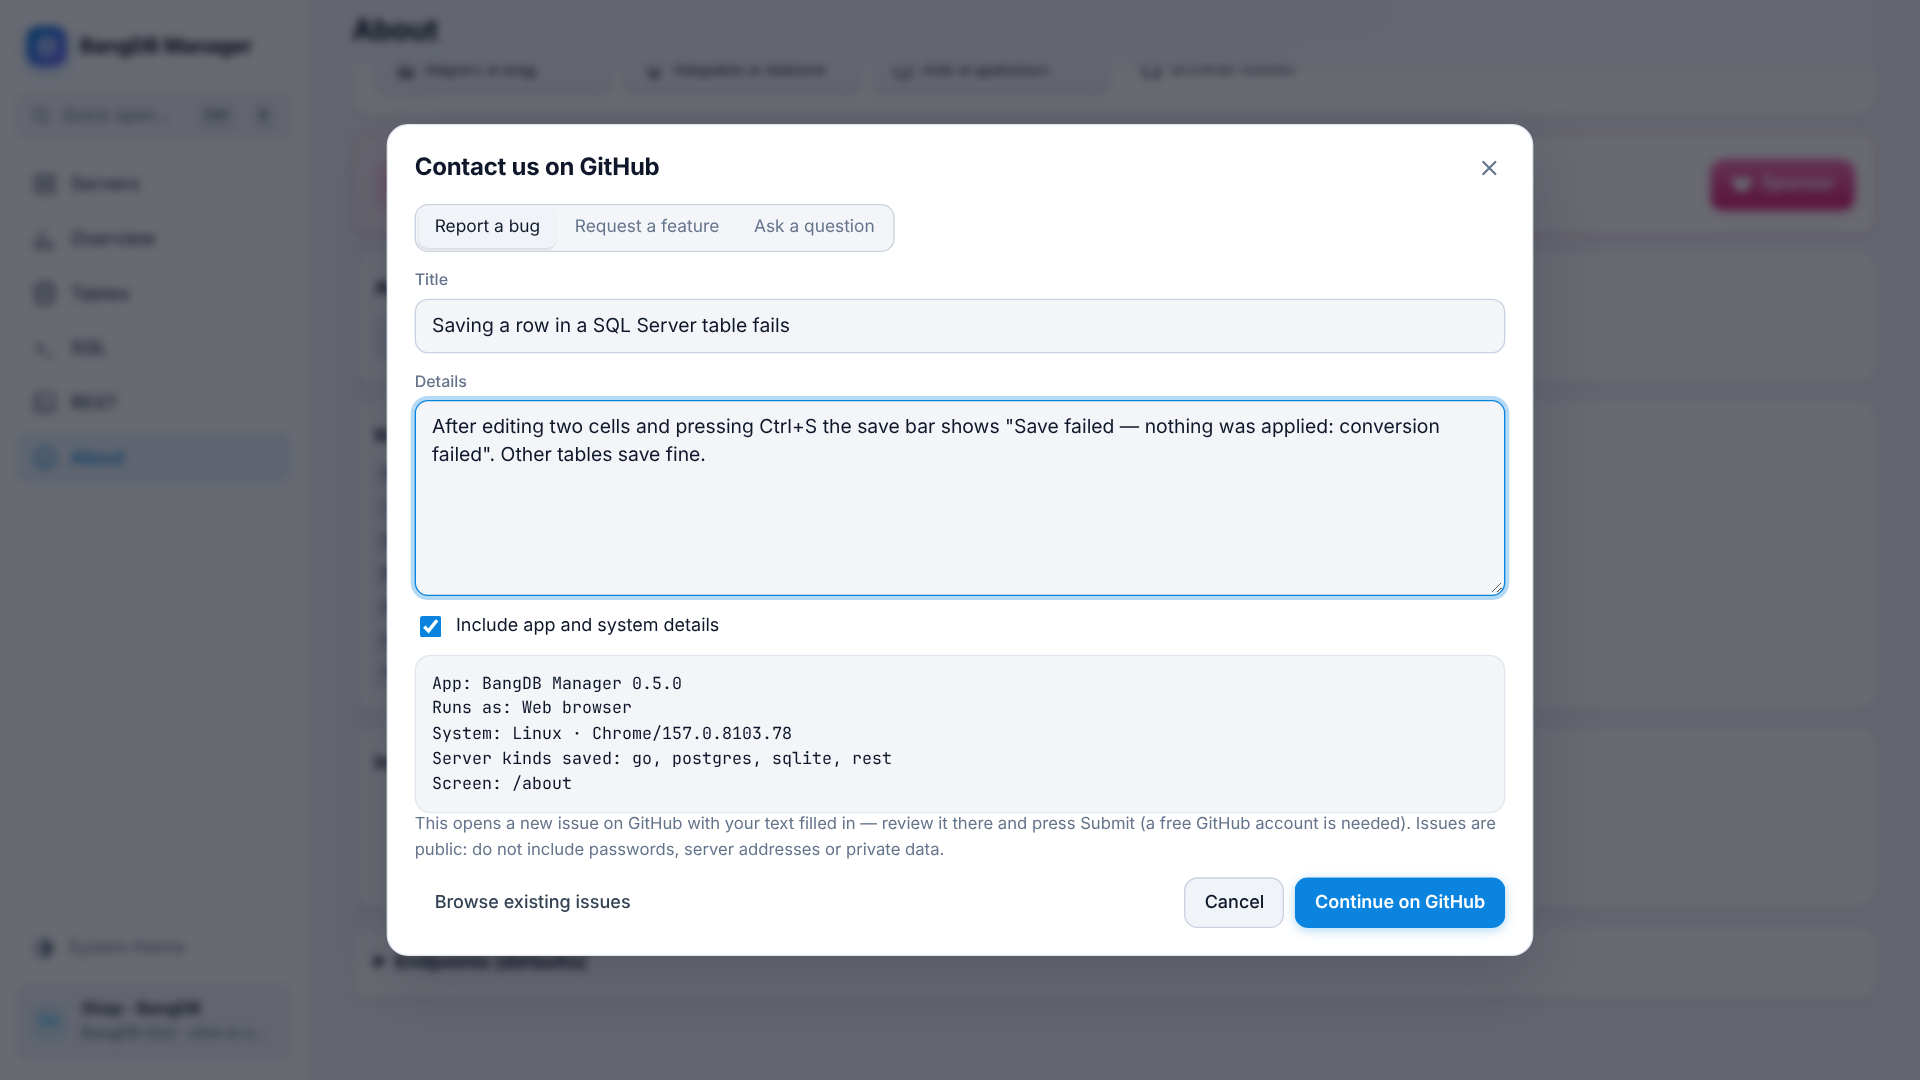
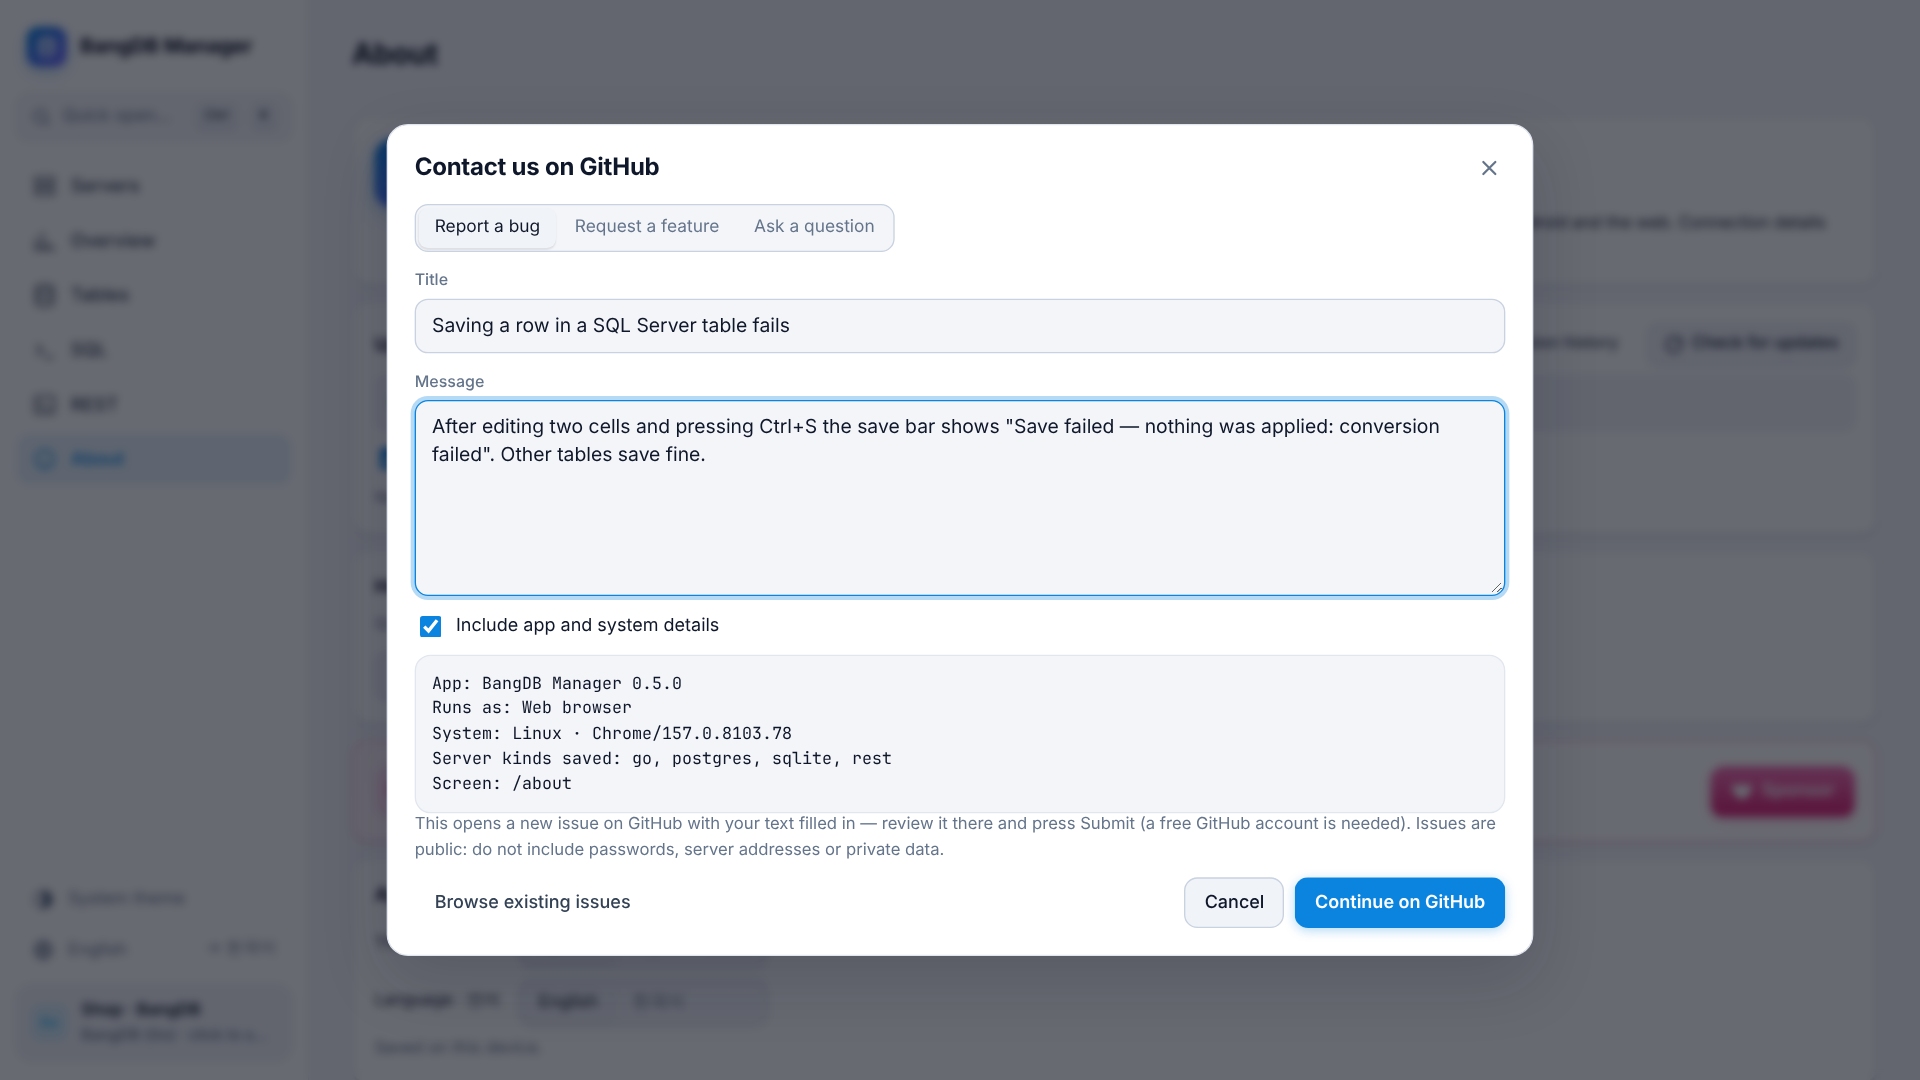
Take English and Korean store screenshots, document the language switch
- screenshots/en and screenshots/ko (MinaryHub picks the folder matching
  its page language); scripts/store-screenshots.mjs takes UI_LANG=ko
- README shows the Korean screens, describes the language switch and how
  to add UI text; CHANGELOG and MinaryHub config updated

Claude-Session: https://claude.ai/code/session_01A9NzuDcSjiniLXp6vE16Xp

diff --git a/README.md b/README.md
@@ -5,7 +5,7 @@
 
 > *A cross-platform database manager for BangDB, PostgreSQL, MySQL/MariaDB, SQL Server, SQLite, MongoDB and Redis — edit tables like a spreadsheet, run SQL, change schemas, import, export and back up, with the same app on Windows, macOS, Linux, Android and the web.* ([English summary](#english))
 
-![BangDB Manager — 테이블 데이터를 바로 편집](./screenshots/desktop-1920x1080/01-table-data.png)
+![BangDB Manager — 테이블 데이터를 바로 편집](./screenshots/ko/desktop-1920x1080/01-table-data.png)
 
 ## 다운로드
 
@@ -34,30 +34,31 @@
 - **어디서나** — 데스크톱 앱, Android 앱, 설치형 웹앱(PWA). 데스크톱 앱이 같은 Wi-Fi 의 휴대폰에 앱을 그대로 제공.
 - **자동 업데이트와 버전 관리** — 백그라운드 업데이트, 자동 확인 켜기/끄기, 업데이트 후 "새로운 점", 버전 기록과 이전 버전 다시 설치.
 - **문의 · 후원** — 앱에서 바로 버그 신고·기능 요청·질문(GitHub Issues), GitHub Sponsors 로 후원.
+- **한국어 / English** — 화면·메뉴·안내 문구를 한국어와 영어로 바로 전환(사이드바의 언어 버튼, 정보 → 화면, Ctrl/⌘+K). 기본은 영어이고 고른 언어는 기기에 저장됩니다.
 - **개인정보** — 연결 정보는 이 기기에만 저장. 다크 / 라이트 / 시스템 테마.
 
 ## 스크린샷
 
 | | |
 |---|---|
-| ![SQL 콘솔](./screenshots/desktop-1920x1080/02-sql-console.png) | ![테이블 목록](./screenshots/desktop-1920x1080/03-tables.png) |
+| ![SQL 콘솔](./screenshots/ko/desktop-1920x1080/02-sql-console.png) | ![테이블 목록](./screenshots/ko/desktop-1920x1080/03-tables.png) |
 | SQL 콘솔 — 스키마 패널, 문장 단위 실행, 결과 정렬 | 테이블 목록 — 행 수(큰 테이블은 ≈ 추정), 뷰 |
-| ![빠른 열기](./screenshots/desktop-1920x1080/04-quick-open.png) | ![구조 편집](./screenshots/desktop-1920x1080/05-schema.png) |
+| ![빠른 열기](./screenshots/ko/desktop-1920x1080/04-quick-open.png) | ![구조 편집](./screenshots/ko/desktop-1920x1080/05-schema.png) |
 | 빠른 열기 (Ctrl/⌘+K) | 구조 편집 — 컬럼·제약 조건 |
-| ![서버 목록](./screenshots/desktop-1920x1080/06-servers.png) | ![서버 개요](./screenshots/desktop-1920x1080/07-server-overview.png) |
+| ![서버 목록](./screenshots/ko/desktop-1920x1080/06-servers.png) | ![서버 개요](./screenshots/ko/desktop-1920x1080/07-server-overview.png) |
 | 서버 목록 — 종류별 아이콘, 연결 상태 | BangDB 서버 개요 — 통계, 덤프/복원, 유지 보수 |
-| ![업데이트·문의·후원](./screenshots/desktop-1920x1080/08-about-updates-support.png) | ![버전 기록](./screenshots/desktop-1920x1080/09-version-history.png) |
+| ![업데이트·문의·후원](./screenshots/ko/desktop-1920x1080/08-about-updates-support.png) | ![버전 기록](./screenshots/ko/desktop-1920x1080/09-version-history.png) |
 | 정보 — 업데이트, 문의, 후원 | 버전 기록 — 릴리즈 노트, 이전 버전 설치 |
 
 <p>
-<img src="./screenshots/android-phone-1080x1920/01-servers.png" width="19%" alt="서버 목록 (휴대폰)">
-<img src="./screenshots/android-phone-1080x1920/02-table-data.png" width="19%" alt="테이블 데이터 (휴대폰)">
-<img src="./screenshots/android-phone-1080x1920/03-sql-console.png" width="19%" alt="SQL 콘솔 (휴대폰)">
-<img src="./screenshots/android-phone-1080x1920/05-quick-open.png" width="19%" alt="빠른 열기 (휴대폰)">
-<img src="./screenshots/android-phone-1080x1920/06-about.png" width="19%" alt="정보 (휴대폰)">
+<img src="./screenshots/ko/android-phone-1080x1920/01-servers.png" width="19%" alt="서버 목록 (휴대폰)">
+<img src="./screenshots/ko/android-phone-1080x1920/02-table-data.png" width="19%" alt="테이블 데이터 (휴대폰)">
+<img src="./screenshots/ko/android-phone-1080x1920/03-sql-console.png" width="19%" alt="SQL 콘솔 (휴대폰)">
+<img src="./screenshots/ko/android-phone-1080x1920/05-quick-open.png" width="19%" alt="빠른 열기 (휴대폰)">
+<img src="./screenshots/ko/android-phone-1080x1920/06-about.png" width="19%" alt="정보 (휴대폰)">
 </p>
 
-스토어·앱 소개 사이트 등록용 원본 이미지는 [`screenshots/`](./screenshots) 에 있습니다 (데스크톱 1920×1080, 휴대폰 1080×1920, 기능 그래픽 1024×500).
+스토어·앱 소개 사이트 등록용 원본 이미지는 [`screenshots/`](./screenshots) 에 있습니다 — 한국어(`ko/`)·영어(`en/`) 화면 각각 데스크톱 1920×1080, 휴대폰 1080×1920, 그리고 기능 그래픽 1024×500.
 
 ## 지원 데이터베이스
 
@@ -90,13 +91,15 @@
 
 ## English
 
+![BangDB Manager](./screenshots/en/desktop-1920x1080/01-table-data.png)
+
 **BangDB Manager** is a free database manager (source on GitHub) for **BangDB, PostgreSQL, MySQL/MariaDB, SQL Server, SQLite, MongoDB and Redis**. One app runs on Windows, macOS, Linux, Android and in the browser (installable PWA).
 
 - Spreadsheet-style table editing with batched, transactional saves; form editor; search, filters, sorting and paging
 - SQL console with a schema panel, run-statement-at-cursor, EXPLAIN, parameters, history and CSV/JSON export
 - Schema tools: create tables and views, add/alter/rename/drop columns, indexes, DDL, copy and rename tables
 - Import CSV/TSV/JSON/JSONL, export CSV/JSON/SQL, full SQL dump and restore (key-based paging for big tables)
-- Quick open (Ctrl/⌘+K), keyboard shortcuts, dark/light/system themes
+- English and Korean UI, switchable at any time; quick open (Ctrl/⌘+K), keyboard shortcuts, dark/light/system themes
 - Automatic updates (desktop installs in the background, web reloads, Android notifies), version history with release notes and older-version downloads
 - Report bugs, request features and ask questions from the app (GitHub Issues); sponsor development on [GitHub Sponsors](https://github.com/sponsors/knoxxr)
 - The desktop app bundles a gateway for PostgreSQL, MySQL, SQL Server, SQLite, MongoDB and Redis, and can serve the app to phones on the same network
@@ -108,7 +111,11 @@
 
 # 개발자 문서
 
-> UI 언어는 영어입니다. 이 문서는 한국어로 유지합니다.
+> UI 는 영어(기본)와 한국어를 지원합니다. 이 문서는 한국어로 유지합니다.
+
+### UI 문구 번역
+
+화면 문구는 영어 원문을 키로 쓰는 `t()` 로 감싸고(`src/i18n/index.ts`), 한국어는 `src/i18n/ko/*.ts` 에 둡니다. 개수에 따라 달라지는 문구는 `tp(n, '{n} row', '{n} rows')`, 상수에 둔 문구는 `tx()` 로 표시하고 보여 줄 때 `t()` 를 부릅니다. `npm test` 가 소스의 모든 문구에 한국어가 있는지, `{자리표시자}` 가 같은지 확인하므로 새 문구를 넣으면 번역도 함께 넣어야 합니다. 한국어 파일은 한국어를 고를 때만 내려받습니다. 데스크톱 앱의 메뉴·대화상자 문구는 `electron/i18n.mjs` 에 있습니다.
 
 ## 빠른 시작 (개발)
 

diff --git a/screenshots/README.md b/screenshots/README.md
@@ -1,11 +1,11 @@
 # 스토어 · 앱 소개용 스크린샷
 
-앱 등록(MinaryHub, Google Play, Microsoft Store 등)과 README 에 쓰는 이미지입니다. 모두 실제 서버(BangDB Go, PostgreSQL 16, SQLite, BangDB 2.0 REST 모의 서버)에 연결해 찍은 화면이고, 데이터는 `scripts/demo-data.mjs` 가 만든 가상의 쇼핑몰 데이터입니다.
+앱 등록(MinaryHub, Google Play, Microsoft Store 등)과 README 에 쓰는 이미지입니다. 영어 화면은 `en/`, 한국어 화면은 `ko/` 에 같은 구성으로 있습니다. 모두 실제 서버(BangDB Go, PostgreSQL 16, SQLite, BangDB 2.0 REST 모의 서버)에 연결해 찍은 화면이고, 데이터는 `scripts/demo-data.mjs` 가 만든 가상의 쇼핑몰 데이터입니다.
 
 | 폴더 / 파일 | 크기 | 용도 |
 |---|---|---|
-| `desktop-1920x1080/` (10장) | 1920×1080 (16:9) PNG | 데스크톱 스토어(Microsoft Store 등), MinaryHub 카드·소개 페이지 |
-| `android-phone-1080x1920/` (6장) | 1080×1920 (9:16) PNG | Google Play 휴대폰 스크린샷 |
+| `en/desktop-1920x1080/`, `ko/desktop-1920x1080/` (각 10장) | 1920×1080 (16:9) PNG | 데스크톱 스토어(Microsoft Store 등), MinaryHub 카드·소개 페이지 |
+| `en/android-phone-1080x1920/`, `ko/android-phone-1080x1920/` (각 6장) | 1080×1920 (9:16) PNG | Google Play 휴대폰 스크린샷 |
 | `feature-graphic-1024x500.png` | 1024×500 PNG | Google Play 기능 그래픽 |
 
 앱 아이콘은 `public/icon-512.png`(512×512)를 씁니다.
@@ -33,7 +33,7 @@
 
 [MinaryHub](https://minaryhub.github.io) 는 **MinaryHub 조직의 공개 저장소**를 자동으로 모아 보여 줍니다.
 
-- 저장소가 MinaryHub 조직에 있으면(이전 또는 조직에서 새로 만들기 — 포크는 제외됨) 이 폴더를 그대로 읽습니다: 카드에는 `desktop-1920x1080/` 묶음이 파일 이름 순으로 쓰이고(최대 10장), `feature-graphic`·`icon` 이름은 건너뜁니다. 공유 미리보기는 첫 PNG(01)를 씁니다. 이미지를 바꾸면 사이트를 다시 배포하지 않아도 10분 안에 반영됩니다.
+- 저장소가 MinaryHub 조직에 있으면(이전 또는 조직에서 새로 만들기 — 포크는 제외됨) 이 폴더를 그대로 읽습니다: 영어 페이지는 `en/`, 한국어 페이지는 `ko/` 를 쓰고, 카드에는 그 안의 `desktop-1920x1080/` 묶음이 파일 이름 순으로 쓰이고(최대 10장), `feature-graphic`·`icon` 이름은 건너뜁니다. 공유 미리보기는 첫 PNG(01)를 씁니다. 이미지를 바꾸면 사이트를 다시 배포하지 않아도 10분 안에 반영됩니다.
 - 설명·주요 기능·분류는 MinaryHub 저장소의 `config.json` 에 넣습니다. 붙여 넣을 내용은 [`docs/minaryhub.json`](../docs/minaryhub.json) 에 있습니다 (`overrides` = 조직 저장소일 때, `apps` = 저장소를 옮기지 않고 링크만 올릴 때 — 이 경우 다운로드 버튼과 통계는 나오지 않습니다).
 - 릴리즈 파일 이름(`…-windows-x64-setup.exe`, `…-macos-arm64.dmg`, `…-linux-x86_64.AppImage`, `…-android-debug.apk`)은 MinaryHub 의 OS·아키텍처 분류 규칙에 이미 맞습니다.
 - 저장소 About(⚙)의 설명과 토픽도 카드에 쓰입니다. 권장: 설명 "Cross-platform manager for BangDB, PostgreSQL, MySQL, SQL Server, SQLite, MongoDB and Redis", 토픽 `database` `database-management` `sql` `postgresql` `mysql` `sqlite` `mongodb` `redis` `electron` `pwa`.
@@ -51,8 +51,9 @@ mkdir -p sq && sqlite3 sq/analytics.db < sqlite.sql               # SQLite
 node scripts/mock-bangdb.mjs &
 npm run build && SQLITE_ROOT=/tmp/demo/sq node proxy/server.mjs &
 # 3) 촬영 (npm i -D playwright 필요). 버전 기록은 GitHub 릴리즈를 읽고, 저장해 둔 목록을 쓰려면 RELEASES_JSON
-node scripts/store-screenshots.mjs screenshots          # 전체
-node scripts/store-screenshots.mjs screenshots 02       # 이름에 02 가 들어간 것만
+node scripts/store-screenshots.mjs                     # 영어 → screenshots/en
+UI_LANG=ko node scripts/store-screenshots.mjs          # 한국어 → screenshots/ko
+node scripts/store-screenshots.mjs "" 02                # 이름에 02 가 들어간 것만
 ```
 
 같은 데이터로 찍으면 같은 이미지가 나옵니다(데이터와 화면 크기가 고정). 기능 그래픽은 01 스크린샷을 넣은 HTML 을 1024×500 으로 찍은 것입니다.

diff --git a/CHANGELOG.md b/CHANGELOG.md
@@ -1,4 +1,12 @@
-## Unreleased — 업데이트·버전 관리, 문의·후원, 빠른 이동, 테마, 성능 개선
+## Unreleased — 한국어/영어 전환, 업데이트·버전 관리, 문의·후원, 빠른 이동, 테마, 성능 개선
+
+**한국어 / English**
+- 화면 전체(모든 페이지·대화상자·안내·오류 메시지)를 영어(기본)와 한국어로 전환: 사이드바의 언어 버튼, 정보 → 화면 → Language · 언어, Ctrl/⌘+K. 고른 언어는 기기에 저장되고, 저장하지 않은 편집 내용은 전환해도 유지
+- 데스크톱 앱의 메뉴와 대화상자도 같은 언어로
+- 한국어 문구는 한국어를 고를 때만 내려받음(약 60 KB), 다음 실행부터는 첫 화면부터 한국어
+- 빠른 열기는 한국어 화면에서도 영어 단어("report", "update")로 찾을 수 있음
+- 테스트가 모든 화면 문구의 한국어 번역과 자리표시자 일치를 확인
+- 스크린샷을 `screenshots/en`, `screenshots/ko` 두 벌로 (MinaryHub 의 영어·한국어 페이지용)
 
 **업데이트 · 버전 관리**
 - 정보 → 업데이트: 모든 플랫폼에서 "지금 확인", 상태 표시(최신 / 받는 중 % / 설치 준비 / 오류), 자동 확인 켜기·끄기(기기에 저장)
